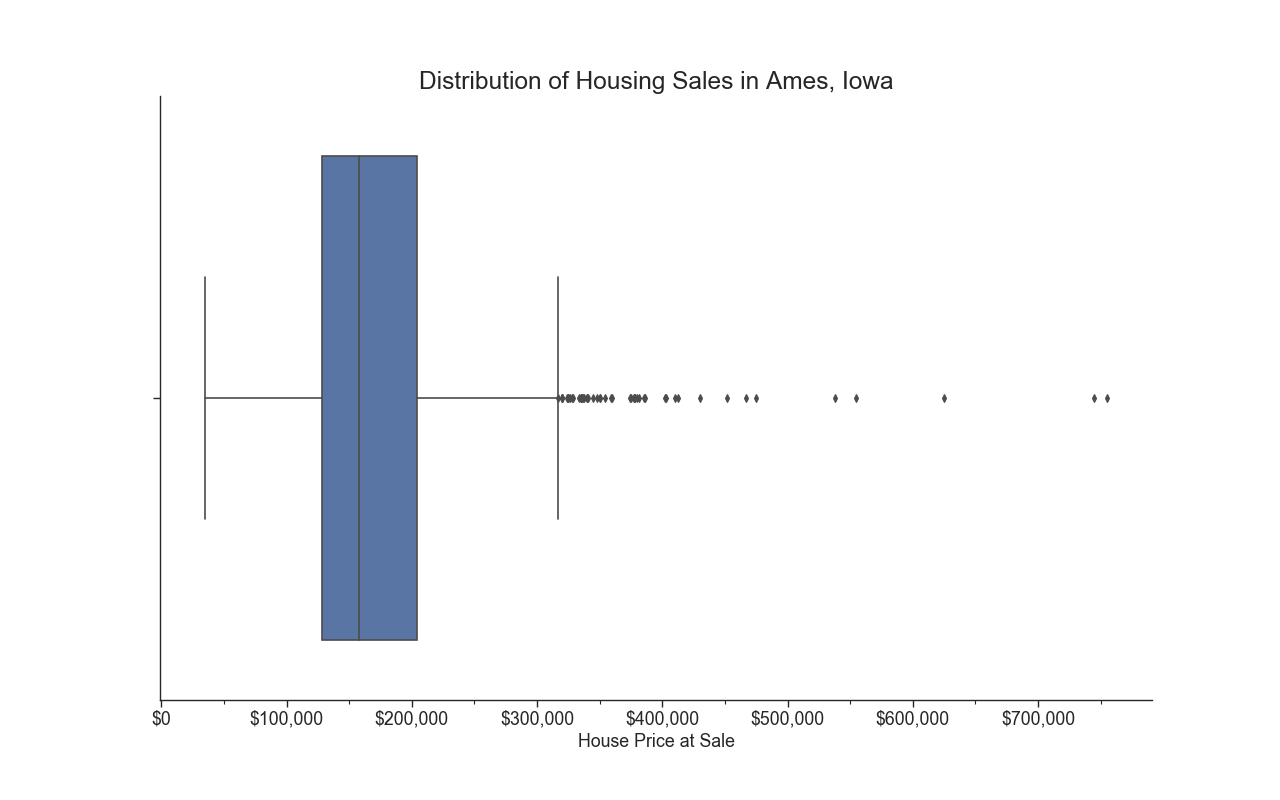
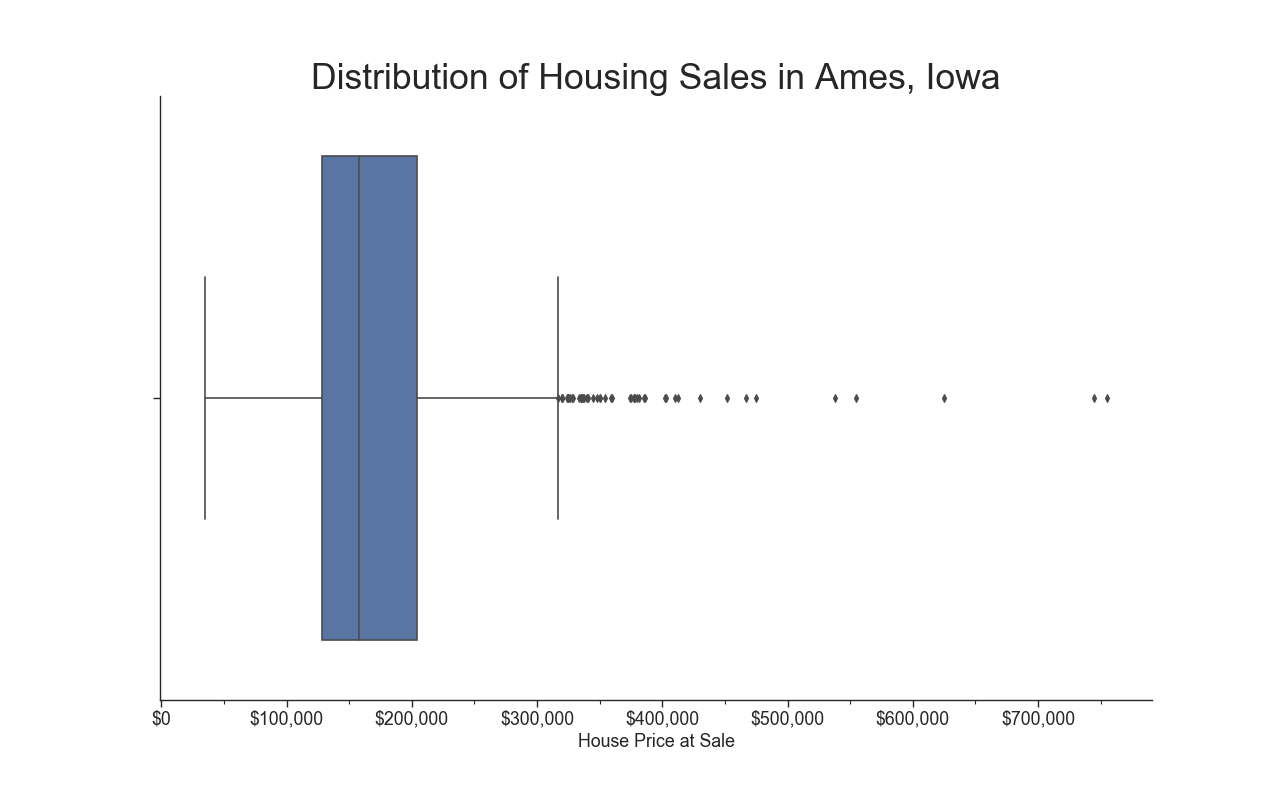
update image details

Changed region(s): [[0.25, 0.0625, 0.7812, 0.125]]

diff --git a/code/visuals_code.py b/code/visuals_code.py
@@ -13,7 +13,7 @@ matplotlib_axes_logger.setLevel('ERROR')
 
 
 # Set specific parameters for the visualizations
-large = 22; med = 16; small = 12
+large = 32; med = 16; small = 12
 params = {'axes.titlesize': large,
           'legend.fontsize': med,
           'figure.figsize': (16, 10),
@@ -103,6 +103,38 @@ def dist_var_one(series_var,filename):
     plt.close(fig) 
     pass
 
+
+def dist_var_hist_box(series_var,filename):
+
+    fig = plt.figure(figsize=(16, 10), dpi=80) 
+    # Creates one subplot within our figure and uses the classes fig and ax
+    fig, (ax_box, ax_hist) = plt.subplots(2, sharex=True, gridspec_kw={"height_ratios": (.15, .85)}, dpi= 80, facecolor='w', edgecolor='k')
+    
+    sns.boxplot(series_var, ax=ax_box)
+    sns.distplot(series_var, ax=ax_hist)
+    #ax.set_ylim(0, 100)
+
+    ax_hist.xaxis.set_major_locator(ticker.MultipleLocator(100000.00))
+    ax_hist.xaxis.set_minor_locator(ticker.MultipleLocator(50000))
+    ax_hist.xaxis.set_major_formatter(ticker.StrMethodFormatter('${x:,.0f}'))
+    ax_hist.set_xlabel("House Price at Sale")
+    
+    ax_hist.yaxis.set_major_formatter(ticker.PercentFormatter())
+    ax_hist.yaxis.set_major_locator(ticker.NullLocator())
+
+    ax_box.set(xlabel='')
+
+    fig.suptitle('Distribution of Housing Sales in Ames, Iowa', fontsize=26)
+
+    file_name = filename
+    path = './images/'+file_name+'.png'
+    plt.savefig(path)
+    plt.close(fig) 
+    pass
+
+
+
+
 def good_heat_map(test):
     fig = plt.figure(figsize=(8,11))
     fig, ax = plt.subplots(figsize=(8,11), facecolor='w', edgecolor='k')
@@ -122,7 +154,7 @@ def scatter_explore(test):
     # Creates one subplot within our figure and uses the classes fig and ax
     fig, ax = plt.subplots(figsize=(16, 10), dpi= 80, facecolor='w', edgecolor='k')
     chart = sns.scatterplot(x='GrLivArea', y='SalePrice', data = test,
-                            hue='OverallQual', legend='full', alpha = .7,
+                            hue=test.OverallQual.values, legend='full', alpha = .7,
                             palette="BrBG")
 
     ax.yaxis.set_major_locator(ticker.MultipleLocator(100000.00))
@@ -133,9 +165,11 @@ def scatter_explore(test):
     ax.xaxis.set_minor_locator(ticker.MultipleLocator(100))
     #ax.xaxis.set_major_formatter(ticker.StrMethodFormatter('{x} sqft'))
 
-    ax.set_title("The Positive Correlations between Price, Sqft, and Quality Rating \n in Home Sales")
+    fig.suptitle("The Positive Correlations between Home Sale Price,\n Sq Footage and Quality Rating", fontsize=26)
     ax.set_xlabel("Total Square Feet")
     ax.set_ylabel("Sale Price")
+    
+    ax.get_legend().set_title("Overall Quality Ranking")
     
     plt.tight_layout()
     file_name = "scatter_price"
